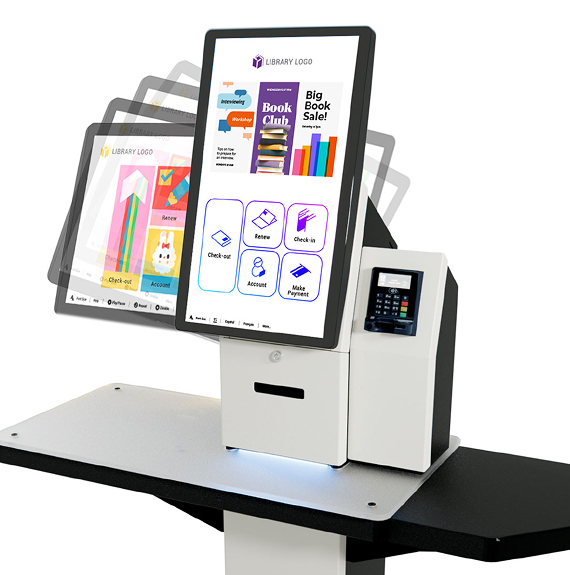
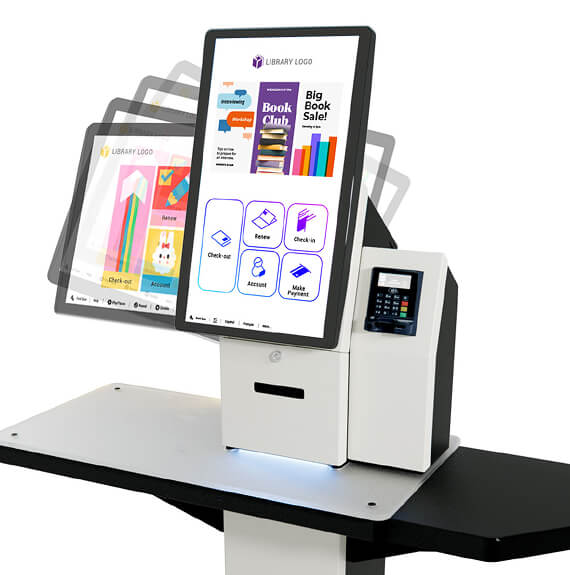
Solutions page added and images optimized

diff --git a/app/solutions/page.js b/app/solutions/page.js
@@ -1,0 +1,244 @@
+"use client";
+import Layout from "@/components/layout/Layout";
+import Link from "next/link";
+import { useState } from "react";
+import { useTranslation } from "react-i18next";
+
+export default function Home() {
+  const { t, i18n } = useTranslation();
+  const [isActive, setIsActive] = useState({
+    status: false,
+    key: 1,
+  });
+  // Phone number with proper formatting
+  const phoneNumber = "+77074044744";
+  const phoneDisplay = "+7 707 404 47 44";
+  const phoneNumber2 = "+998777510017";
+  const phoneDisplay2 = "+998 77 751 00 17";
+
+  const handleToggle = (key) => {
+    if (isActive.key === key) {
+      setIsActive({
+        status: false,
+      });
+    } else {
+      setIsActive({
+        status: true,
+        key,
+      });
+    }
+  };
+
+  return (
+    <>
+      <Layout
+        headerStyle={4}
+        footerStyle={1}
+        breadcrumbTitle={t("solutionsPage.title")}
+        breadcrumbBg="assets/img/solution/solution-page-bg.jpg"
+      >
+        <div>
+          {/*Start Services Details */}
+          <section className="services-details">
+            <div className="container">
+              <div className="row">
+                {/* Start Services Details Content*/}
+                <div className="col-xl-8">
+                  <div className="services-details__content">
+                    <div className="services-details__content-img1">
+                      <img src="assets/img/solution/solution1.jpg" alt="#" />
+                    </div>
+
+                    <div
+                      className="text-box1"
+                      id="rfid-solutions"
+                      style={{ scrollMarginTop: "100px" }}
+                    >
+                      <h4>{t("solutionsPage.mainTitle")}</h4>
+                      <p className="text1">{t("solutionsPage.intro1")}</p>
+                      <p className="text1">{t("solutionsPage.intro2")}</p>
+                      <p className="text1">{t("solutionsPage.intro3")}</p>
+                      <p className="text1">{t("solutionsPage.intro4")}</p>
+                    </div>
+
+                    <div className="services-details__content-img2">
+                      <img src="assets/img/solution/solution3.jpg" alt="#" />
+                    </div>
+
+                    <div
+                      className="text-box3"
+                      id="how-it-works"
+                      style={{ scrollMarginTop: "100px" }}
+                    >
+                      <h4>{t("solutionsPage.howItWorksTitle")}</h4>
+                      <p className="text1">{t("solutionsPage.howItWorks1")}</p>
+                      <p className="text1">{t("solutionsPage.howItWorks2")}</p>
+                      <p className="text1">{t("solutionsPage.howItWorks3")}</p>
+                      <p className="text1">{t("solutionsPage.howItWorks4")}</p>
+                    </div>
+
+                    <div className="services-details__content-img2">
+                      <img src="assets/img/solution/solution2.jpg" alt="#" />
+                    </div>
+
+                    <div
+                      className="text-box3"
+                      id="implementation"
+                      style={{ scrollMarginTop: "100px" }}
+                    >
+                      <h4>{t("solutionsPage.implementationTitle")}</h4>
+                      <p className="text1">
+                        {t("solutionsPage.implementation1")}
+                      </p>
+                      <p className="text1">
+                        {t("solutionsPage.implementation2")}
+                      </p>
+                      <p className="text1">
+                        {t("solutionsPage.implementation3")}
+                      </p>
+                    </div>
+
+                    <div
+                      className="text-box1"
+                      id="why-choose"
+                      style={{ scrollMarginTop: "100px" }}
+                    >
+                      <h4>{t("solutionsPage.whyChooseTitle")}</h4>
+                      <p className="text1">{t("solutionsPage.whyChoose1")}</p>
+                      <p className="text1">{t("solutionsPage.whyChoose2")}</p>
+                      <p className="text1">{t("solutionsPage.whyChoose3")}</p>
+                      <ul className="pb10">
+                        <li>
+                          <div className="icon">
+                            <span className="icon-check-mark"></span>
+                          </div>
+                          <div className="text">
+                            <p>{t("solutionsPage.benefit1")}</p>
+                          </div>
+                        </li>
+
+                        <li>
+                          <div className="icon">
+                            <span className="icon-check-mark"></span>
+                          </div>
+                          <div className="text">
+                            <p>{t("solutionsPage.benefit2")}</p>
+                          </div>
+                        </li>
+                        <li>
+                          <div className="icon">
+                            <span className="icon-check-mark"></span>
+                          </div>
+                          <div className="text">
+                            <p>{t("solutionsPage.benefit3")}</p>
+                          </div>
+                        </li>
+                      </ul>
+                      <p className="text1">{t("solutionsPage.whyChoose4")}</p>
+                      <p className="text1">{t("solutionsPage.conclusion")}</p>
+                    </div>
+                  </div>
+                </div>
+                {/*End Services Details Content */}
+
+                {/*Start Sidebar */}
+                <div className="col-xl-4">
+                  <div className="sidebar">
+                    {/*Start Sidebar Single */}
+                    <div className="sidebar__single sidebar__category">
+                      {/* <h3 className="sidebar__title">Categories</h3> */}
+
+                      <ul className="sidebar__category-list">
+                        <li>
+                          <Link className="active" href="#rfid-solutions">
+                            {t("solutionsPage.title")}{" "}
+                            <span className="icon-left-arrow"></span>
+                          </Link>
+                        </li>
+                        <li>
+                          <Link href="#how-it-works">
+                            {t("solutionsPage.howItWorksTitle")}{" "}
+                            <span className="icon-left-arrow"></span>
+                          </Link>
+                        </li>
+                        <li>
+                          <Link href="#implementation">
+                            {t("solutionsPage.implementationTitle")}{" "}
+                            <span className="icon-left-arrow"></span>
+                          </Link>
+                        </li>
+                        <li>
+                          <Link href="#why-choose">
+                            {t("solutionsPage.whyChooseTitle")}{" "}
+                            <span className="icon-left-arrow"></span>
+                          </Link>
+                        </li>
+                      </ul>
+                    </div>
+                    {/*End Sidebar Single */}
+
+                    {/*Start Sidebar Single */}
+                    <div className="sidebar__single sidebar__support">
+                      <div
+                        className="sidebar__support-bg"
+                        style={{
+                          backgroundImage:
+                            "url(assets/img/solution/solution-bg.jpg)",
+                        }}
+                      ></div>
+                      <div className="sidebar__support__inner text-center">
+                        <h2>{t("solutionsPage.needAnyService")}</h2>
+                        <div className="btn-box">
+                          <Link className="thm-btn" href="/contact">
+                            <span className="txt">
+                              {t("solutionsPage.findSolution")}
+                            </span>
+                          </Link>
+                        </div>
+                      </div>
+                    </div>
+                    {/*End Sidebar Single */}
+
+                    {/*Start Sidebar Single */}
+                    <div className="sidebar__single sidebar__contact">
+                      <div className="sidebar__contact-inner">
+                        <div className="icon-box">
+                          <span className="icon-phone"></span>
+                        </div>
+
+                        <div className="text-box">
+                          <p>{t("solutionsPage.callAnytime")}</p>
+                          <h4>
+                            <Link
+                              href={`tel:${phoneNumber}`}
+                              aria-label={t("header.callUs")}
+                              title={t("header.callUsTitle")}
+                            >
+                              {phoneDisplay}
+                            </Link>
+                          </h4>
+                          <h4>
+                            <Link
+                              href={`tel:${phoneNumber2}`}
+                              aria-label={t("header.callUs")}
+                              title={t("header.callUsTitle")}
+                            >
+                              {phoneDisplay2}
+                            </Link>
+                          </h4>
+                        </div>
+                      </div>
+                    </div>
+                    {/*End Sidebar Single */}
+                  </div>
+                </div>
+                {/*End Sidebar */}
+              </div>
+            </div>
+          </section>
+          {/*End Services Details */}
+        </div>
+      </Layout>
+    </>
+  );
+}

diff --git a/components/layout/Layout.js b/components/layout/Layout.js
@@ -13,7 +13,7 @@ import Header2 from './header/Header2'
 import Header3 from "./header/Header3"
 import Header4 from "./header/Header4"
 
-export default function Layout({ headerStyle, footerStyle, headTitle, breadcrumbTitle, breadcrumbItems, children, wrapperCls }) {
+export default function Layout({ headerStyle, footerStyle, headTitle, breadcrumbTitle, breadcrumbItems, breadcrumbBg, children, wrapperCls }) {
     const [scroll, setScroll] = useState(0)
     // Mobile Menu
     const [isMobileMenu, setMobileMenu] = useState(false)
@@ -58,7 +58,7 @@ export default function Layout({ headerStyle, footerStyle, headTitle, breadcrumb
                 <Sidebar isSidebar={isSidebar} handleSidebar={handleSidebar} />
                 <SearchPopup isPopup={isPopup} handlePopup={handlePopup} />
 
-                {breadcrumbTitle && <Breadcrumb breadcrumbTitle={breadcrumbTitle} breadcrumbItems={breadcrumbItems} />}
+                {breadcrumbTitle && <Breadcrumb breadcrumbTitle={breadcrumbTitle} breadcrumbItems={breadcrumbItems} backgroundImage={breadcrumbBg} />}
 
                 {children}
 

diff --git a/components/layout/footer/Footer1.js b/components/layout/footer/Footer1.js
@@ -16,6 +16,8 @@ export default function Footer1() {
   // Phone number with proper formatting
   const phoneNumber = "+77074044744";
   const phoneDisplay = "+7 707 404 47 44";
+  const phoneNumber2 = "+998777510017";
+  const phoneDisplay2 = "+998 77 751 00 17";
 
   useEffect(() => {
     setEmailVisible(true);
@@ -62,6 +64,15 @@ export default function Footer1() {
                         title={t("footer.callUsTitle")}
                       >
                         {phoneDisplay}
+                      </Link>
+                    </div>
+                    <div className="number-box">
+                      <Link
+                        href={`tel:${phoneNumber2}`}
+                        aria-label={t("footer.callUs")}
+                        title={t("footer.callUsTitle")}
+                      >
+                        {phoneDisplay2}
                       </Link>
                     </div>
                     <div className="footer-social-link">

diff --git a/components/elements/LanguageSelector.js b/components/elements/LanguageSelector.js
@@ -11,9 +11,9 @@ const LanguageSelector = () => {
   const dropdownRef = useRef(null);
 
   const languages = [
-    { code: "En", name: "EN", flag: "/assets/img/header/gb.png" },
-    { code: "Ru", name: "РУ", flag: "/assets/img/header/ru.png" },
-    // { code: "Uz", name: "OʻZ", flag: "/assets/img/header/uz.png" },
+    { code: "En", shortname: "EN", name: "English", flag: "/assets/img/header/gb.png" },
+    { code: "Ru", shortname: "Ру", name: "Русский", flag: "/assets/img/header/ru.png" },
+    // { code: "Uz", shortname: "Oʻz", name: "Oʻzbek", flag: "/assets/img/header/uz.png" },
   ];
 
   useEffect(() => {
@@ -57,7 +57,7 @@ const LanguageSelector = () => {
           height={22}
           className="flag-icon"
         />{" "}
-        {languages.find((lang) => lang.code === selectedLanguage)?.name}
+        {languages.find((lang) => lang.code === selectedLanguage)?.shortname}
       </div>
 
       <ul className="lang-dropdown">

diff --git a/components/layout/header/Header4.js b/components/layout/header/Header4.js
@@ -24,6 +24,8 @@ export default function Header4({
   // Phone number with proper formatting
   const phoneNumber = "+77074044744";
   const phoneDisplay = "+7 707 404 47 44";
+  const phoneNumber2 = "+998777510017";
+  const phoneDisplay2 = "+998 77 751 00 17";
 
   useEffect(() => {
     setEmailVisible(true);
@@ -50,6 +52,15 @@ export default function Header4({
                         title={t("header.callUsTitle")}
                       >
                         {phoneDisplay}
+                      </Link>
+                    </li>
+                    <li>
+                      <Link
+                        href={`tel:${phoneNumber2}`}
+                        aria-label={t("header.callUs")}
+                        title={t("header.callUsTitle")}
+                      >
+                        {phoneDisplay2}
                       </Link>
                     </li>
                     <li>

diff --git a/components/layout/Breadcrumb.js b/components/layout/Breadcrumb.js
@@ -2,14 +2,16 @@
 import Link from "next/link"
 import { useTranslation } from "react-i18next"
 
-export default function Breadcrumb({ breadcrumbTitle, breadcrumbItems }) {
+export default function Breadcrumb({ breadcrumbTitle, breadcrumbItems, backgroundImage }) {
     const { t, i18n } = useTranslation();
+    const bgImage = backgroundImage || 'assets/img/background/page-header-bg.jpg';
+    
     return (
         <>
             
             {/*Start Page Header */}
             <section className="page-header">
-                <div className="page-header__bg" style={{backgroundImage: 'url(assets/img/background/page-header-bg.jpg)'}}>
+                <div className="page-header__bg" style={{backgroundImage: `url(${bgImage})`}}>
                 </div>
 
                 <div className="container">

diff --git a/public/assets/css/style.css b/public/assets/css/style.css
@@ -220,6 +220,9 @@ h5 {
 h6 {
   font-size: 1rem;
 }
+.pb10 {
+  padding-bottom: 10px;
+}
 
 /*== Swiper Nav Style1 Css ======*/
 .swiper-nav-style1 {
@@ -407,7 +410,6 @@ h6 {
 
 .flag-icon {
   margin-right: 8px;
-  border-radius: 2px;
   border: 0.01em solid var(--thm-logocolor);
   transition: all 0.3s ease;
 }
